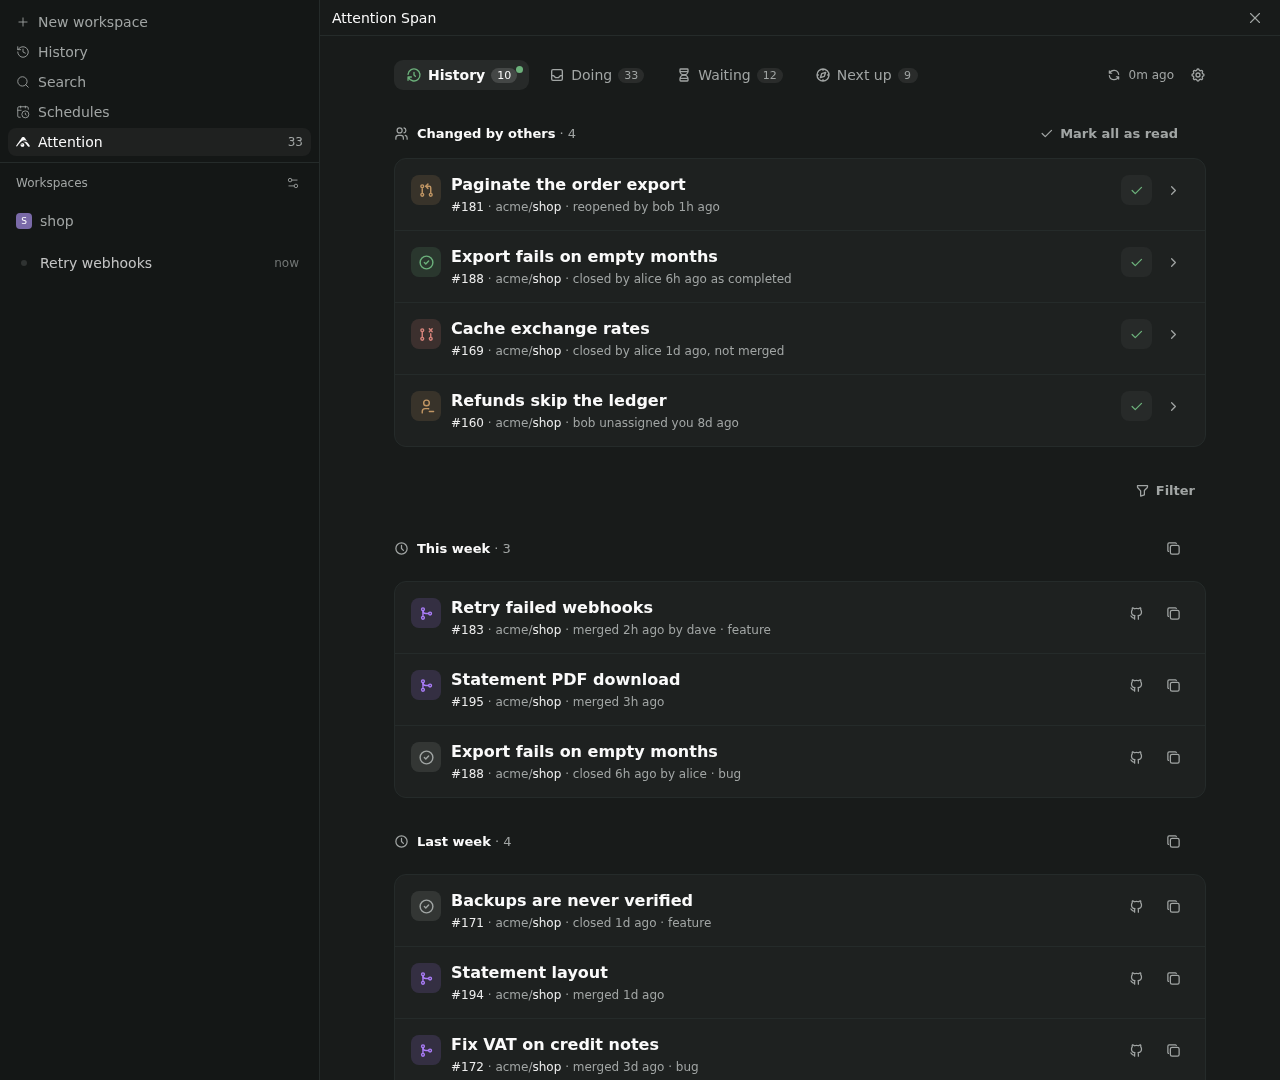
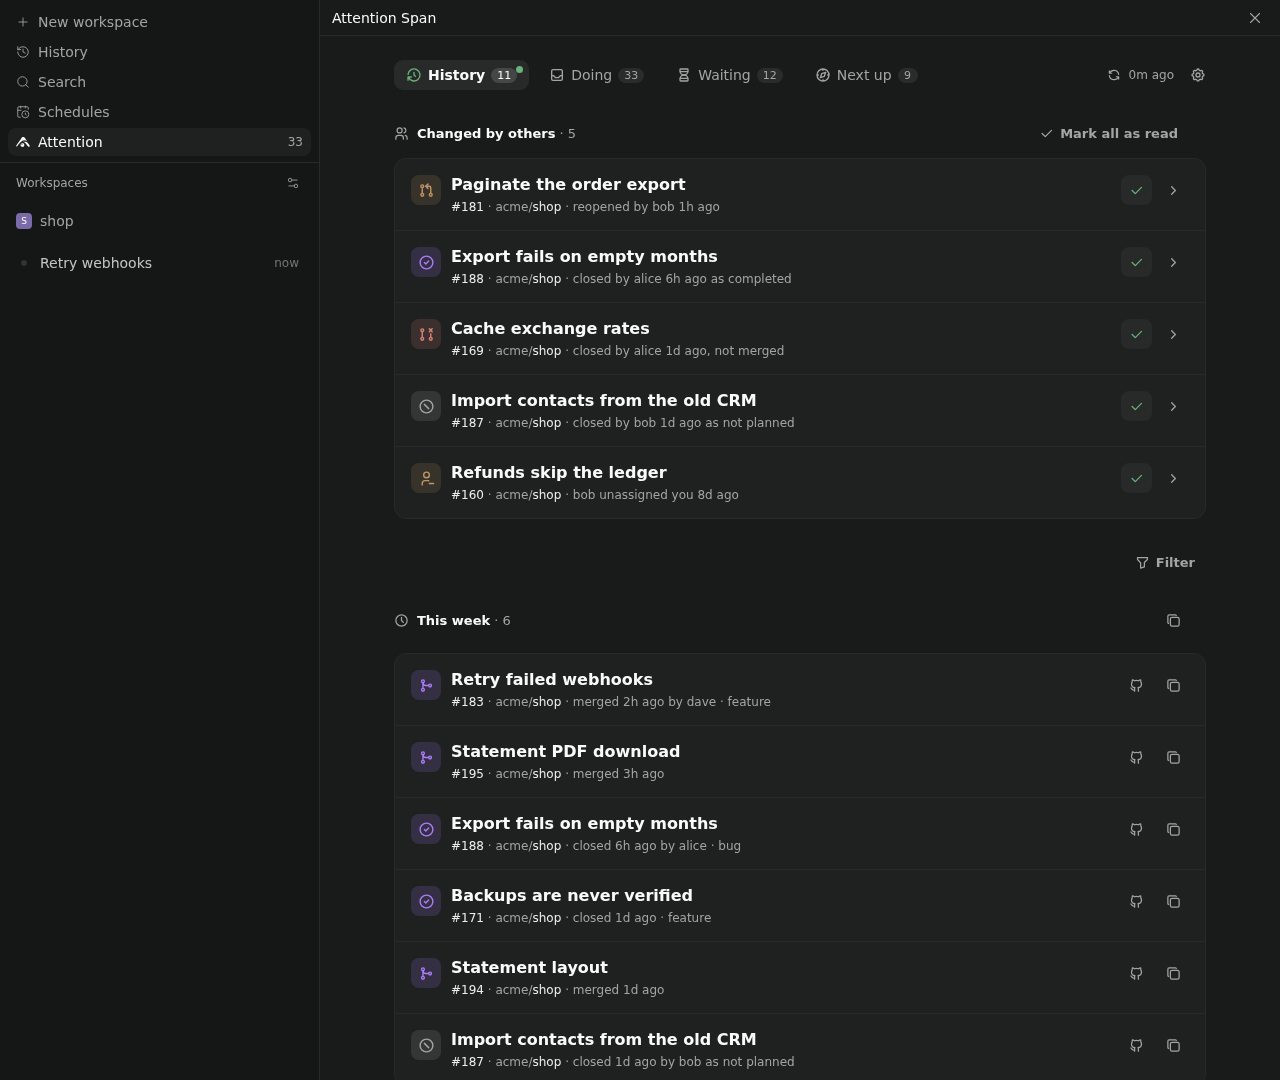
Closed issues look the same everywhere: purple when completed, grey ⊘ when not planned [HIS-03, HIS-07, NXT-11] (#73)
History colored a closed issue's mark by whether its card had any chip,
from when "not planned" was the only one. Type chips like "bug" then
turned completed issues grey, as if not planned.

- Completed: the closed-issue check in GitHub's purple, like a merged
  PR, in the weeks and in Changed by others' notes.
- Not planned: a grey circle-slash, GitHub's mark, in both places,
  replacing the grey check and the red ✕. Next up's Not planned
  button wears it too.
- The "not planned" chip is gone: the line already says "as not
  planned". The item's sheet now leads with that line, so it keeps
  the close reason.
- The preview has bob closing #187 as not planned, so History shows
  both marks.

diff --git a/client/icons.ts b/client/icons.ts
@@ -33,6 +33,8 @@ export const ICONS = {
   clock: { svg: "<svg xmlns=\"http://www.w3.org/2000/svg\" viewBox=\"0 0 24 24\"><g fill=\"none\" stroke=\"currentColor\" stroke-linecap=\"round\" stroke-linejoin=\"round\" stroke-width=\"2\"><path d=\"M3 12a9 9 0 1 0 18 0a9 9 0 0 0-18 0\"/><path d=\"M12 7v5l3 3\"/></g></svg>" },
   history: { svg: "<svg xmlns=\"http://www.w3.org/2000/svg\" viewBox=\"0 0 24 24\"><g fill=\"none\" stroke=\"currentColor\" stroke-linecap=\"round\" stroke-linejoin=\"round\" stroke-width=\"2\"><path d=\"M12 8v4l2 2\"/><path d=\"M3.05 11a9 9 0 1 1 .5 4m-.5 5v-5h5\"/></g></svg>" },
   issueClosed: { svg: "<svg xmlns=\"http://www.w3.org/2000/svg\" viewBox=\"0 0 24 24\"><g fill=\"none\" stroke=\"currentColor\" stroke-linecap=\"round\" stroke-linejoin=\"round\" stroke-width=\"2\"><path d=\"M3 12a9 9 0 1 0 18 0a9 9 0 1 0-18 0\"/><path d=\"m9 12l2 2l4-4\"/></g></svg>" },
+  // Tabler forbid: an issue closed as not planned, like GitHub's mark [HIS-03, HIS-07, NXT-11].
+  notPlanned: { svg: "<svg xmlns=\"http://www.w3.org/2000/svg\" viewBox=\"0 0 24 24\"><g fill=\"none\" stroke=\"currentColor\" stroke-linecap=\"round\" stroke-linejoin=\"round\" stroke-width=\"2\"><path d=\"M3 12a9 9 0 1 0 18 0a9 9 0 1 0-18 0\"/><path d=\"m9 9l6 6\"/></g></svg>" },
   thumbUp: { svg: "<svg xmlns=\"http://www.w3.org/2000/svg\" viewBox=\"0 0 24 24\"><path fill=\"none\" stroke=\"currentColor\" stroke-linecap=\"round\" stroke-linejoin=\"round\" stroke-width=\"2\" d=\"M7 11v8a1 1 0 0 1-1 1H4a1 1 0 0 1-1-1v-7a1 1 0 0 1 1-1h3a4 4 0 0 0 4-4V6a2 2 0 0 1 4 0v5h3a2 2 0 0 1 2 2l-1 5a2 3 0 0 1-2 2h-7a3 3 0 0 1-3-3\"/></svg>" },
   star: { svg: "<svg xmlns=\"http://www.w3.org/2000/svg\" viewBox=\"0 0 24 24\"><path fill=\"none\" stroke=\"currentColor\" stroke-linecap=\"round\" stroke-linejoin=\"round\" stroke-width=\"2\" d=\"m12 17.75l-6.172 3.245l1.179-6.873l-5-4.867l6.9-1l3.086-6.253l3.086 6.253l6.9 1l-5 4.867l1.179 6.873z\"/></svg>" },
   settings: { svg: "<svg xmlns=\"http://www.w3.org/2000/svg\" viewBox=\"0 0 24 24\"><g fill=\"none\" stroke=\"currentColor\" stroke-linecap=\"round\" stroke-linejoin=\"round\" stroke-width=\"2\"><path d=\"M10.325 4.317c.426-1.756 2.924-1.756 3.35 0a1.724 1.724 0 0 0 2.573 1.066c1.543-.94 3.31.826 2.37 2.37a1.724 1.724 0 0 0 1.065 2.572c1.756.426 1.756 2.924 0 3.35a1.724 1.724 0 0 0-1.066 2.573c.94 1.543-.826 3.31-2.37 2.37a1.724 1.724 0 0 0-2.572 1.065c-.426 1.756-2.924 1.756-3.35 0a1.724 1.724 0 0 0-2.573-1.066c-1.543.94-3.31-.826-2.37-2.37a1.724 1.724 0 0 0-1.065-2.572c-1.756-.426-1.756-2.924 0-3.35a1.724 1.724 0 0 0 1.066-2.573c-.94-1.543.826-3.31 2.37-2.37c1 .608 2.296.07 2.572-1.065\"/><path d=\"M9 12a3 3 0 1 0 6 0a3 3 0 0 0-6 0\"/></g></svg>" },

diff --git a/client/mark.ts b/client/mark.ts
@@ -16,6 +16,10 @@ export function stackMark(row: Pick<SubRow, "state" | "draft" | "mergedAt">): Ca
   return prStateMark(row.state ?? (row.mergedAt ? "MERGED" : row.draft ? "DRAFT" : "OPEN"));
 }
 
+// An issue closed as completed is done like a merged PR, in GitHub's purple; one closed as not planned was set aside.
+const issueClosedMark = (notPlanned: boolean): CardProps["mark"] =>
+  notPlanned ? { icon: "notPlanned", tone: "neutral" } : { icon: "issueClosed", tone: "good", color: "PURPLE" };
+
 // What the card is: open, draft, merged or closed. Urgency stays in the chips and section headers.
 // A note on what someone else did shows what happened instead; its words say it too, so color isn't the only sign [HIS-07].
 export function stateMark(item: Item): CardProps["mark"] {
@@ -24,12 +28,12 @@ export function stateMark(item: Item): CardProps["mark"] {
     const kind = item.change.kind;
     if (kind === "merged") return prStateMark("MERGED");
     if (kind === "closed") return prStateMark("CLOSED");
-    if (kind === "issue_closed") return item.change.reason === "not_planned" ? { icon: "close", tone: "bad" } : { icon: "issueClosed", tone: "good" };
+    if (kind === "issue_closed") return issueClosedMark(item.change.reason === "not_planned");
     if (kind === "reopened") return { icon: "pr", tone: "warn" };
     return { icon: kind === "unassigned" ? "userMinus" : "userShare", tone: "warn" };
   }
   if (item.kind === "pr" && item.closedUnmerged) return prStateMark("CLOSED");
-  if (item.closedAt) return item.kind === "pr" ? prStateMark("MERGED") : { icon: "issueClosed", tone: item.chips.length ? "neutral" : "good" };
+  if (item.closedAt) return item.kind === "pr" ? prStateMark("MERGED") : issueClosedMark(!!item.notPlanned);
   if (item.kind === "issue") return { icon: "issue", tone: "good" };
   return prStateMark(item.draft ? "DRAFT" : "OPEN");
 }

diff --git a/client/mark.test.ts b/client/mark.test.ts
@@ -1,6 +1,6 @@
 import { describe, expect, it } from "vitest";
 import type { PrState } from "../shared/attention";
-import { item } from "../shared/test-builders";
+import { change, item } from "../shared/test-builders";
 import { prStateMark, stackMark, stateMark } from "./mark";
 
 describe("PR state marks", () => {
@@ -24,5 +24,17 @@ describe("PR state marks", () => {
   it("ATT-22: a PR closed without merging stays closed, including when marked as a draft", () => {
     expect(stateMark(item("o/r#1", "wrap", { closedAt: "2026-11-17T00:00:00Z", closedUnmerged: true, draft: true }))).toEqual(prStateMark("CLOSED"));
     expect(stateMark(item("o/r#2", "done", { closedAt: "2026-11-17T00:00:00Z" }))).toEqual(prStateMark("MERGED"));
+  });
+
+  it("HIS-03, HIS-07: a closed issue has one mark wherever it shows: purple when completed, grey circle-slash when not planned", () => {
+    const closedAt = "2026-11-17T00:00:00Z";
+    const completed = { icon: "issueClosed", tone: "good", color: "PURPLE" };
+    const notPlanned = { icon: "notPlanned", tone: "neutral" };
+    expect(stateMark(item("o/r#3", "done", { kind: "issue", closedAt, chips: [{ text: "bug", tone: "neutral" }] }))).toEqual(completed);
+    expect(stateMark(item("o/r#4", "done", { kind: "issue", closedAt, notPlanned: true }))).toEqual(notPlanned);
+    const note = (reason: "completed" | "not_planned") =>
+      item("o/r#5", "done", { kind: "issue", change: change("issue_closed", "o/r#5", { subject: "issue", reason }) });
+    expect(stateMark(note("completed"))).toEqual(completed);
+    expect(stateMark(note("not_planned"))).toEqual(notPlanned);
   });
 });

diff --git a/server/view.test.ts b/server/view.test.ts
@@ -1,6 +1,7 @@
 import { describe, expect, it } from "vitest";
 import { type Attention, type Item, liftActive, type NextUpIssue, type WaitingOn } from "../shared/attention";
 import { AttentionConfig } from "../shared/config";
+import { cardWhen } from "../shared/item-view";
 import { agent, issue, item, viewMeta } from "../shared/test-builders";
 import { applyPending, buildView, dismissedIn, doneItem, isPending, type Pending, SETTLE_MS } from "./view";
 
@@ -145,8 +146,10 @@ describe("pending changes", () => {
     expect(history).toHaveLength(1);
   });
 
-  it("FRESH-02: an issue closed as not planned says so in History", () => {
-    expect(doneItem(issue("i"), at, true)).toMatchObject({ kind: "issue", section: "done", chips: [{ text: "not planned" }] });
+  it("FRESH-02: an issue closed as not planned says so in History, once, in its line", () => {
+    const done = doneItem(issue("i"), at, true);
+    expect(done).toMatchObject({ kind: "issue", section: "done", chips: [] });
+    expect(cardWhen(done, new Date(at))).toMatch(/ as not planned$/);
   });
 
   it("FRESH-02, HIS-04: until History is fetched, the issue type or title prefix tells the kind of work", () => {

diff --git a/client/item-row.tsx b/client/item-row.tsx
@@ -233,7 +233,9 @@ function ItemSheet({ item, waitChips, sessions, actions, ...handlers }: { item: 
   const elsewhere = !!targetUrl(item);
   // The row of the PR its actions apply to, where it's in the stack line: marked there instead of named on top.
   const targetRow = elsewhere ? item.children.find((child) => child.url === item.target.url) : undefined;
-  const meta = elsewhere && !targetRow ? [`actions apply to PR #${item.target.number}`] : [];
+  // How it finished, as its card says it ("closed 1d ago by bob as not planned"), so the sheet keeps the close reason [HIS-07].
+  const when = cardWhen(item);
+  const meta = [...(when ? [when] : []), ...(elsewhere && !targetRow ? [`actions apply to PR #${item.target.number}`] : [])];
   // PRs already in the stack line link from there; list only the rest, like someone else's PR closing the same issue.
   const shown = new Set(item.children.map((child) => child.url));
   const extra = details.data && { ...details.data, linked: details.data.linked.filter((link) => !shown.has(link.url)) };

diff --git a/server/classify.ts b/server/classify.ts
@@ -482,7 +482,7 @@ export function classifyHistory(data: HistoryResult): Item[] {
     // Who closed it, when it wasn't me [HIS-07].
     const closer = issue.timelineItems?.nodes.at(-1)?.actor?.login;
     const closedBy = closer && me && closer.toLowerCase() !== me ? { closedBy: closer } : {};
-    const item = kinded({ ...plain(issue, "issue", "done"), closedAt: issue.closedAt, chips: notPlanned ? [chip("not planned")] : [], ...closedBy, ...(notPlanned ? { notPlanned: true as const } : {}) }, issue);
+    const item = kinded({ ...plain(issue, "issue", "done"), closedAt: issue.closedAt, chips: [], ...closedBy, ...(notPlanned ? { notPlanned: true as const } : {}) }, issue);
     // Not planned issues get no PRs under them: the PRs were still done, so they're listed on their own [HIS-03].
     if (!notPlanned) closed.set(prKey(issue), item);
     items.push(item);

diff --git a/server/fixture.ts b/server/fixture.ts
@@ -374,6 +374,8 @@ export function fixtureChanges(now: Date): OthersChange[] {
     event("took_over", "pr", 186, "Split the invoice PDF job", 5, "phil", "phil"),
     { ...event("issue_closed", "issue", 188, "Export fails on empty months", 6, "alice"), reason: "completed" as const },
     event("closed", "pr", 169, "Cache exchange rates", 26, "alice"),
+    // Closed as not planned, so History shows both closed-issue marks side by side [HIS-07].
+    { ...event("issue_closed", "issue", 187, "Import contacts from the old CRM", 30, "bob"), reason: "not_planned" as const },
     event("handed", "pr", 179, "Move invoices to the new queue", 96, "dave", "carol"),
     event("unassigned", "issue", 160, "Refunds skip the ledger", 192, "bob"),
     event("closed", "pr", 170, "Drop the legacy CSV import", 216, "bob"),

diff --git a/server/changes.ts b/server/changes.ts
@@ -322,7 +322,7 @@ export function changeItems(ledger: ChangeLedger, now: Date, windowDays: number,
         change: undefined,
         ...(change.kind === "merged" && change.actor ? { mergedBy: change.actor } : {}),
         ...(change.kind === "issue_closed" && change.actor ? { closedBy: change.actor } : {}),
-        ...(change.reason === "not_planned" ? { notPlanned: true as const, chips: [{ text: "not planned", tone: "neutral" as const }] } : {}),
+        ...(change.reason === "not_planned" ? { notPlanned: true as const } : {}),
       }),
     );
   return { notes, history, finished };

diff --git a/client/next-up.tsx b/client/next-up.tsx
@@ -231,7 +231,7 @@ export function IssueRow({ issue, claim, first, agents, login, busy, fetchDetail
               comment: true,
               choices: [
                 { label: "Completed", icon: "issueClosed", solid: true, onConfirm: close("completed") },
-                { label: "Not planned", icon: "close", onConfirm: close("not_planned") },
+                { label: "Not planned", icon: "notPlanned", onConfirm: close("not_planned") },
               ],
               onCancel: () => setClosing(false),
             }

diff --git a/server/view.ts b/server/view.ts
@@ -64,7 +64,7 @@ export function doneItem(source: Item | NextUpIssue, closedAt: string, notPlanne
   return {
     ...base,
     target: { ...base.target, ...head },
-    chips: [...(work ? [workChip(work)] : []), ...(notPlanned ? [{ text: "not planned", tone: "neutral" as const }] : [])],
+    chips: work ? [workChip(work)] : [],
     ...(work ? { work } : {}),
     ...(notPlanned ? { notPlanned: true as const } : {}),
     // Not planned issues list their PRs on their own, as classifyHistory does [HIS-03].

diff --git a/docs/architecture.md b/docs/architecture.md
@@ -49,7 +49,7 @@ The tabs tell the story of my work, left to right: what I finished, what needs m
 
 | Tab | Shows |
 |---|---|
-| History | The last `historyWeeks` (default 4) by week, newest first, in the device's time zone [HIS-01]; which items each week shows and copies is `shared/history-report.ts`, drawn by `client/history.tsx`. Above the weeks, **Changed by others** lists the unread notes, newest first: my PR merged or closed unmerged by someone else, an issue assigned to me closed by someone else as completed or not planned, a PR of mine reopened by someone else after Attention Span saw it closed, my PR or issue taken over or handed on, or me unassigned from an issue. Each is a row in the same words ("merged by dave 2h ago", "closed by alice 6h ago as completed", "reopened by bob 1h ago", "phil took over", "bob unassigned you 8d ago"), its tile showing what happened [HIS-07]. **Got it**, an icon-only check in the main action's style, clears one (Undo brings it back); with two or more, a ghost **✓ Mark all as read** clears the notes on screen, one Undo bringing them all back, and the two wait for each other in `shared/got-it.ts`. A note about work already in Doing's Wrap up waits there instead, because archiving it is the acknowledgement; unread notes expire after `mentionDays` (default 30). They never count in Doing's count, the sidebar's or the horizon, and the History tab shows a green dot and says "unread changes" to screen readers while any is unread. **Filter** between the notes and the weeks opens a sheet, *Show in each week*: Finished (always, disabled), Reviewed and Changed by others, both off at first and remembered in `state.json`; the button reads "Filter · n" in green when on. With Reviewed on, each week shows a labelled **Reviewed** list of others' merged PRs I reviewed [HIS-02]; with Changed by others on, a labelled list of its cleared notes that aren't already finished work, like a PR closed unmerged, a handover or a reopen [HIS-06, HIS-07]. These replace the old collapsed disclosures. Each week's count is its finished items. A PR of mine someone else merged says so: "merged 2h ago by dave", with its copied line unchanged; under the issue it closed, its row in the sheet says "merged by dave" [HIS-05]. An issue someone else closed says "closed 6h ago by alice" too. A merge or issue close the live refresh sees fills its week at once, before History's daily fetch; when the fetch catches up, its richer card takes the live one's place [HIS-07]. A PR of mine the live refresh sees merged that History doesn't list, merged on GitHub say, has History fetched once its search has caught up (`SETTLE_MS` later), once per PR, so a search slow to show it doesn't fetch on every refresh [FRESH-03]. A PR that left my hands isn't listed as done even once its new owner merges it; a handover cleared into a week stays there if the work comes back to me, but doesn't hide what I later finish [HIS-06]. The copy icon on a week's heading copies what's shown as Markdown lists of links, per kind: Finished, plus Reviewed when shown, separated by `## Finished` and `## Reviewed` headings; never Changed by others; an issue and the PRs that closed it are one line, linking the issue; an issue closed as not planned isn't copied, and PRs that referred to it are listed on their own [HIS-03]. Each card has a plain chip (bug, feature or task) for what kind of work it was, and each copied line leads with its emoji: 🐞, 🚀 or 🔧; a PR of none of those leads with 🔀 and has no chip, an issue of none leads with nothing [HIS-04]. The first of these that names a kind decides: the issue type, the labels (bug beats feature beats task), a Conventional Commit title prefix (`fix:` bug, `feat:` feature, `chore:`, `refactor:`, `docs:`, `build:`, `ci:`, `test:`, `perf:`, `style:` task). Types and labels match only as whole names, ignoring case, emoji and wrappers like `type:` or `kind/`, so "bug", "Type: Bug 🐞" and "kind/bug" count but "not a bug" and "bug bash" don't. Until History is fetched again, what I just finished uses the issue type and title only. |
+| History | The last `historyWeeks` (default 4) by week, newest first, in the device's time zone [HIS-01]; which items each week shows and copies is `shared/history-report.ts`, drawn by `client/history.tsx`. Above the weeks, **Changed by others** lists the unread notes, newest first: my PR merged or closed unmerged by someone else, an issue assigned to me closed by someone else as completed or not planned, a PR of mine reopened by someone else after Attention Span saw it closed, my PR or issue taken over or handed on, or me unassigned from an issue. Each is a row in the same words ("merged by dave 2h ago", "closed by alice 6h ago as completed", "reopened by bob 1h ago", "phil took over", "bob unassigned you 8d ago"), its tile showing what happened [HIS-07]. **Got it**, an icon-only check in the main action's style, clears one (Undo brings it back); with two or more, a ghost **✓ Mark all as read** clears the notes on screen, one Undo bringing them all back, and the two wait for each other in `shared/got-it.ts`. A note about work already in Doing's Wrap up waits there instead, because archiving it is the acknowledgement; unread notes expire after `mentionDays` (default 30). They never count in Doing's count, the sidebar's or the horizon, and the History tab shows a green dot and says "unread changes" to screen readers while any is unread. **Filter** between the notes and the weeks opens a sheet, *Show in each week*: Finished (always, disabled), Reviewed and Changed by others, both off at first and remembered in `state.json`; the button reads "Filter · n" in green when on. With Reviewed on, each week shows a labelled **Reviewed** list of others' merged PRs I reviewed [HIS-02]; with Changed by others on, a labelled list of its cleared notes that aren't already finished work, like a PR closed unmerged, a handover or a reopen [HIS-06, HIS-07]. These replace the old collapsed disclosures. Each week's count is its finished items. A PR of mine someone else merged says so: "merged 2h ago by dave", with its copied line unchanged; under the issue it closed, its row in the sheet says "merged by dave" [HIS-05]. An issue someone else closed says "closed 6h ago by alice" too. A closed issue's tile is the closed-issue check in GitHub's purple, like a merged PR, when completed, and a grey circle-slash when not planned, both in the weeks and in the notes; one closed as not planned says so once, in its line ("closed 1d ago by bob as not planned"), and Next up's Not planned button wears the same circle-slash. A merge or issue close the live refresh sees fills its week at once, before History's daily fetch; when the fetch catches up, its richer card takes the live one's place [HIS-07]. A PR of mine the live refresh sees merged that History doesn't list, merged on GitHub say, has History fetched once its search has caught up (`SETTLE_MS` later), once per PR, so a search slow to show it doesn't fetch on every refresh [FRESH-03]. A PR that left my hands isn't listed as done even once its new owner merges it; a handover cleared into a week stays there if the work comes back to me, but doesn't hide what I later finish [HIS-06]. The copy icon on a week's heading copies what's shown as Markdown lists of links, per kind: Finished, plus Reviewed when shown, separated by `## Finished` and `## Reviewed` headings; never Changed by others; an issue and the PRs that closed it are one line, linking the issue; an issue closed as not planned isn't copied, and PRs that referred to it are listed on their own [HIS-03]. Each card has a plain chip (bug, feature or task) for what kind of work it was, and each copied line leads with its emoji: 🐞, 🚀 or 🔧; a PR of none of those leads with 🔀 and has no chip, an issue of none leads with nothing [HIS-04]. The first of these that names a kind decides: the issue type, the labels (bug beats feature beats task), a Conventional Commit title prefix (`fix:` bug, `feat:` feature, `chore:`, `refactor:`, `docs:`, `build:`, `ci:`, `test:`, `perf:`, `style:` task). Types and labels match only as whole names, ignoring case, emoji and wrappers like `type:` or `kind/`, so "bug", "Type: Bug 🐞" and "kind/bug" count but "not a bug" and "bug bash" don't. Until History is fetched again, what I just finished uses the issue type and title only. |
 | Doing | The sections below |
 | Waiting | My work where someone else has the next move [WAI-01]: *Waiting for review* (while GitHub records a review as owed: a pending request, or an approval or requested changes; or approved but blocked by a repo rule [PRS-13]), *Waiting for the reviewer* (after I replied or pushed), *CI running*, *Questions I asked* (threads where my words are the last from a person, bots don't count, and my words since someone else last spoke tag someone or ask something: a question mark outside quotes, code and links, read from GitHub's rendered comments (`bodyHTML`) so code and links count however they were written. On an issue I opened, its opening is my first words, when the fetched comments reach back to it. With `onlyQuestionsWait` on (Settings → Waiting → Only questions wait, off by default) a statement waits on nobody, tagged or not; with it off, a tagged statement waits on whom it tags. An untagged statement isn't listed): on my own issues however old, on others' only while my comment is within `mentionDays` [ATT-11]. Each shows who it waits on, never a guess [WAI-02]: on a PR, the reviewers currently requested and, after I replied, whoever requested changes, but nobody when a repo rule blocks it; on a question or tag, the people and teams my words since the last answer tag, read from GitHub's rendered comments (`bodyHTML`), where only real accounts and teams I can see are linked, never in code; bots aren't tags: GitHub links no app (`@github-actions`), links some to an organization (`@dependabot`), which is nobody to nudge, and `@renovate[bot]` to a user followed by `[bot]`, and all of those are skipped; tags in quotes don't count, and only the last 10 comments are read. Waiting groups it all by who it waits on, not by those reasons [WAI-01]: one group per person or team (a person tagged with other capitals is one), whoever blocks the most items first, ties by whose oldest item has waited longest, then requested bots, who can't be nudged, and last *Not on a person* for work nobody is on record for. In each group, work with a session that needs me leads, then one that's working, then the rest, oldest first; a finished session I've seen doesn't lift it. Work waiting on several is under each, saying "also waiting on" the rest, and counts once in the tab. Each card says why it waits (review, re-review, question or tagged; nothing where its chips say, like approved, blocked by repo rules, or CI running) and since when. A group's **Copy list** copies its items oldest first as a Markdown list, each line led by why and how long ("- Review 2h: [title](url)"), for a nudge; a requested bot gets none [WAI-03]. My PRs in Doing that wait on people or teams I asked, approved or not, are listed here too, under each of them [PRS-15]. Once something has waited `waitingTooLongDays` (default 3), its age turns amber with ⌛ and says so on hover, but only where a nudge is fair: not while CI fails or runs, nor with conflicts, changes to make or a reply I owe (`nudgeable` in `server/rules.ts`) [ATT-11]. In Doing, one person shows by name, several by picture, named on hover and in the sheet. |
 | Next up | *Assigned to you* [NXT-06], then *Unclaimed* [NXT-01] |
